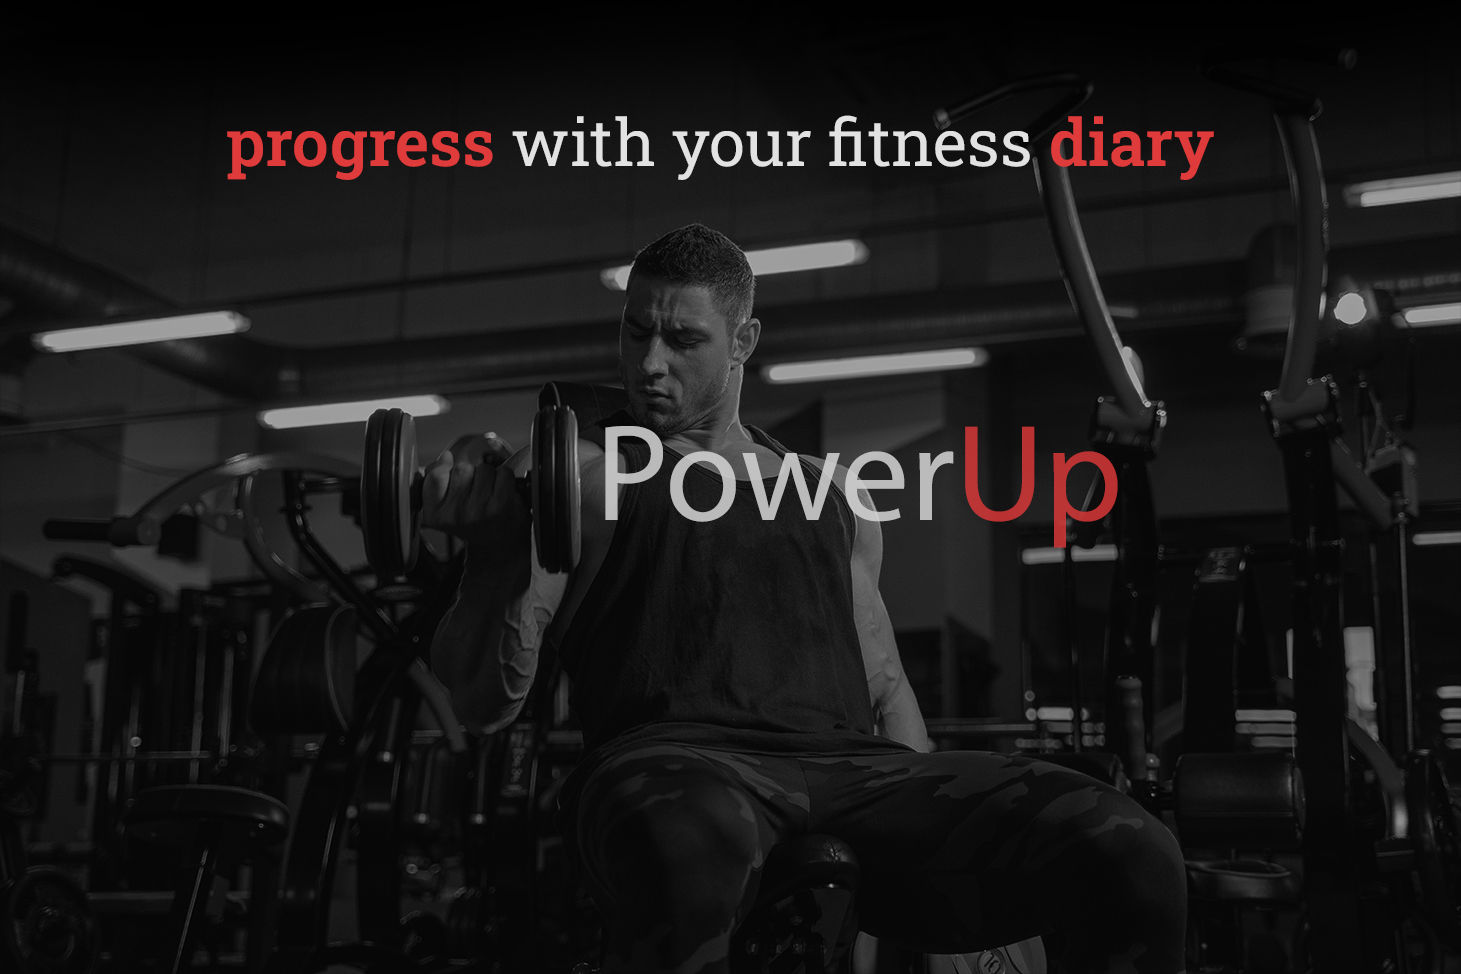
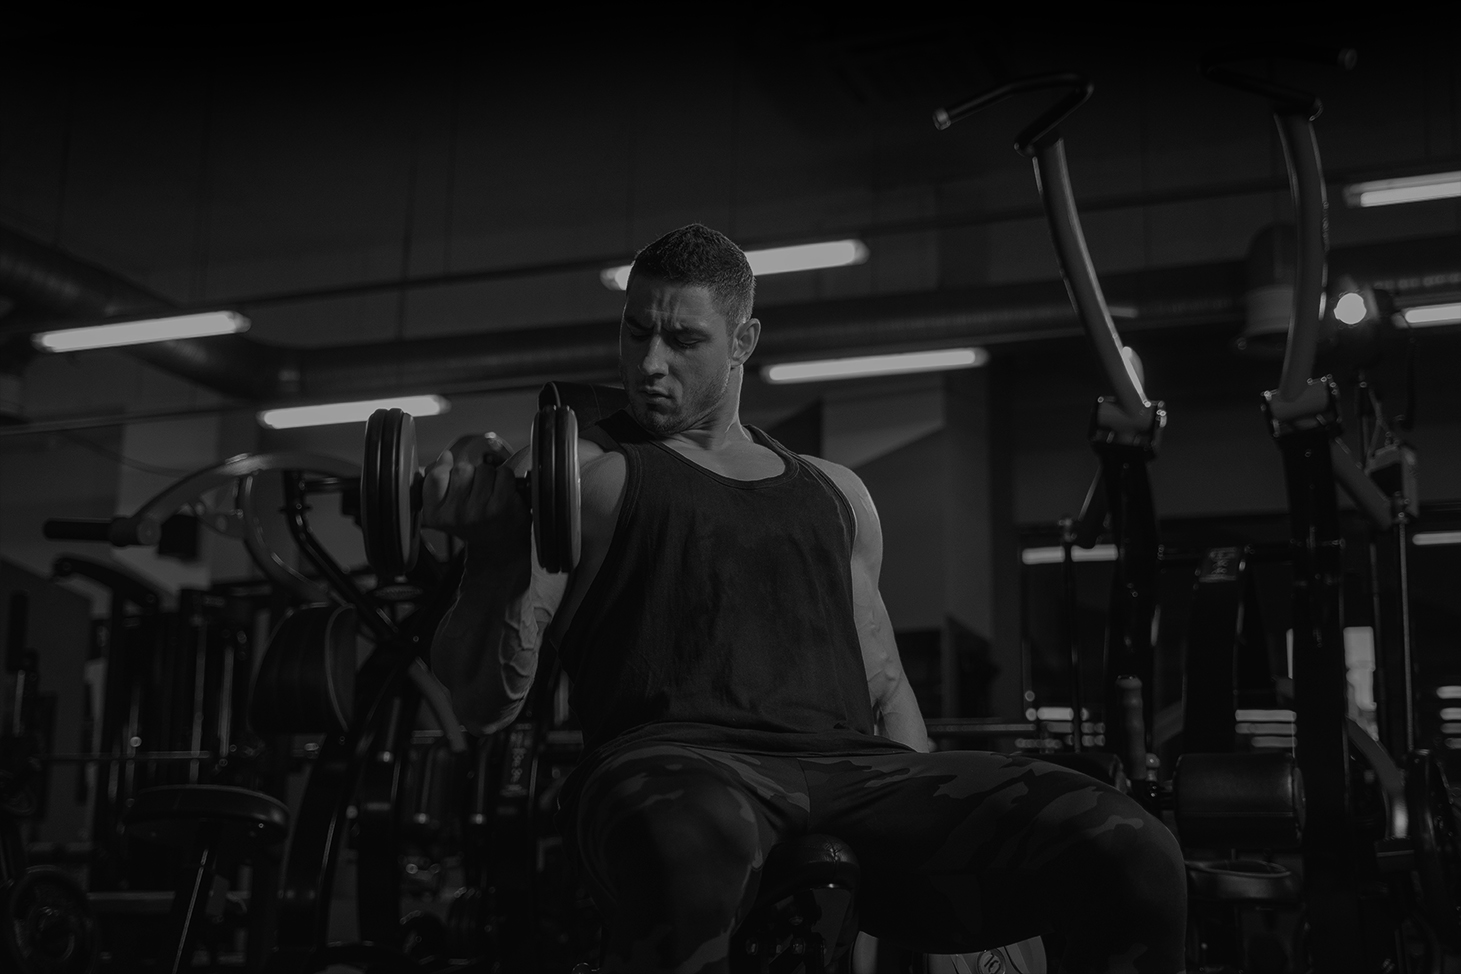
Added responsiveness to some of the elements

Changed region(s): [[0.154, 0.1232, 0.8316, 0.1848], [0.4004, 0.4312, 0.77, 0.5544]]

diff --git a/client/src/components/StartSection/StartSection.css b/client/src/components/StartSection/StartSection.css
@@ -3,10 +3,54 @@
     background-image: url('../../images/home-image.jpg');
     background-size: cover;
     height: 100vh;
+    width: 100vw;
 }
 
-@media screen and (max-width: 900px) {
-    .start-section {
-        margin-top: 15rem;
+.sub-heading {
+    color: var(--color-grey-light-2);
+    font-family: var(--font-heading);
+    font-weight: 400;
+    font-size: 4rem;
+    text-align: center;
+    position: absolute;
+    top: 10rem;
+    left: 50%;
+    transform: translateX(-50%);
+    width: 100%;
+}
+
+.sub-heading-bold {
+    color: var(--color-primary);
+    font-weight: 600;
+}
+
+.heading {
+    color: var(--color-grey-light-2);
+    font-size: 12rem;
+    font-family: var(--font-text);
+    font-weight: 400;
+    position: absolute;
+    top:50%;
+    left: 40%;
+}
+
+@media screen and (max-width: 1000px) {
+    .sub-heading {
+        font-size: 3rem;
+    }
+
+    .heading {
+        font-size: 8rem;
+    }
+}
+
+@media screen and (max-width: 500px) {
+    .sub-heading {
+        font-size: 2.5rem;
+    }
+
+    .heading {
+        left: 30%;
+        font-size: 6rem;
     }
 }

diff --git a/client/src/components/StartSection/StartSection.js b/client/src/components/StartSection/StartSection.js
@@ -23,6 +23,11 @@ const StartSection = ({
     
     return (
         <section className="start-section">
+            <h2 className="sub-heading">
+                <span className="sub-heading-bold">progress</span> with your personal fitness assistant and diary
+            </h2>
+
+            <h1 className="heading">Power<span className="text-red">Up</span></h1>
             <ScrollDown handleScrollDown={handleScrollDown}/>
             {openModal ? <div className={`modal-container ${containerClassName}`}>
                     <Modal show={modal} handleClose={() => setModal(false)}>

diff --git a/client/src/index.css b/client/src/index.css
@@ -1,4 +1,4 @@
-@import url('https://fonts.googleapis.com/css2?family=Roboto+Slab:wght@300;400;500&family=Ubuntu:wght@300;400;500&display=swap');
+@import url('https://fonts.googleapis.com/css2?family=Roboto+Slab:wght@300;400;500&family=Noto+Sans+JP:wght@300;400;500;700&family=Ubuntu:wght@300;400;500&display=swap');
 
 :root {
     /* Color variables */
@@ -16,6 +16,7 @@
     /* Font variables */
     --font-heading: 'Roboto Slab', serif;
     --font-text: 'Ubuntu', sans-serif;
+    --font-heading-1: 'Noto Sans JP', sans-serif;
 }
 
 *,

diff --git a/client/src/components/RegisterSection/RegisterSection.css b/client/src/components/RegisterSection/RegisterSection.css
@@ -23,6 +23,22 @@
     font-size: 3rem;
 }
 
+@media screen and (max-width: 600px) {
+    .description-container {
+        width: 80%;
+    }
+}
+
+@media screen and (max-width: 400px) {
+    .description-container {
+        margin-top: 3rem;
+    }
+
+    .description-text {
+        font-size: 2.5rem;
+    }
+}
+ 
 .description-logo { 
     color: var(--color-primary)
 }

diff --git a/client/src/components/RegisterSection/RegisterForm/RegisterForm.css b/client/src/components/RegisterSection/RegisterForm/RegisterForm.css
@@ -21,6 +21,20 @@
     align-self: center;
 }
 
+@media screen and (max-width: 1000px) {
+    .register-form {
+        flex-direction: column;
+    }
+
+    .button-container {
+        width: 100%;
+    }
+
+    .inputs-container {
+        width: 100%;
+    }
+}
+
 .register-input {
     color: var(--color-primary);
     font-family: var(--font-text);

diff --git a/client/src/components/StartSection/ScrollDown/ScrollDown.css b/client/src/components/StartSection/ScrollDown/ScrollDown.css
@@ -10,6 +10,12 @@
     align-items: center;
 }
 
+@media screen and (max-width: 900px) {
+    .scroll-down-container {
+        bottom: 7rem;
+    }
+}
+
 .scroll-down-text {
     margin-top: 3rem;
     font-size: 1.5rem;

diff --git a/client/src/components/Navigation/Navigation.css b/client/src/components/Navigation/Navigation.css
@@ -34,10 +34,6 @@
         background-color: var(--color-black);
     }
 
-    .right-section {
-        flex-direction: column;
-    }
-
     .btn-login {
         margin-top: 1rem;
     }

diff --git a/client/src/components/Modal/Modal.css b/client/src/components/Modal/Modal.css
@@ -1,6 +1,6 @@
 .modal {
-    height: 50rem;
-    width: 100rem;
+    padding: 7rem 0;
+    min-width: 70rem;
     background-color: var(--color-black);
     position: relative;
 }
